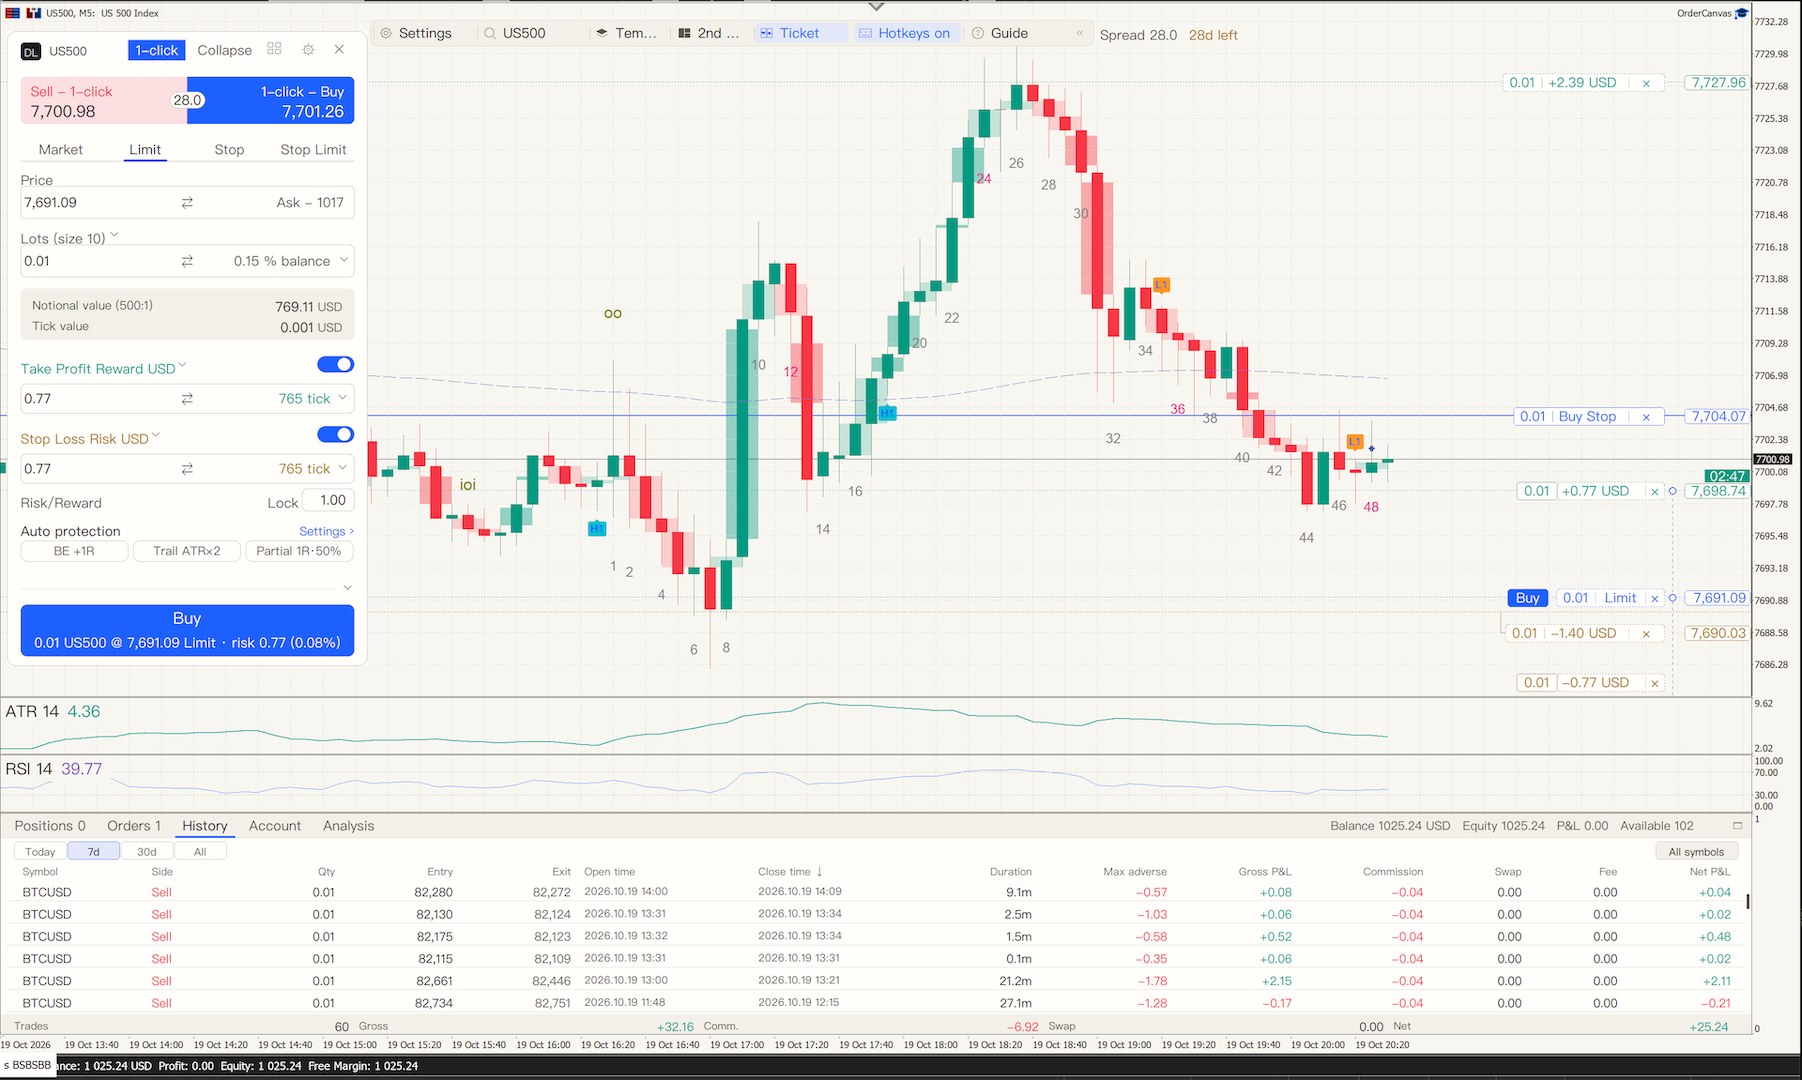
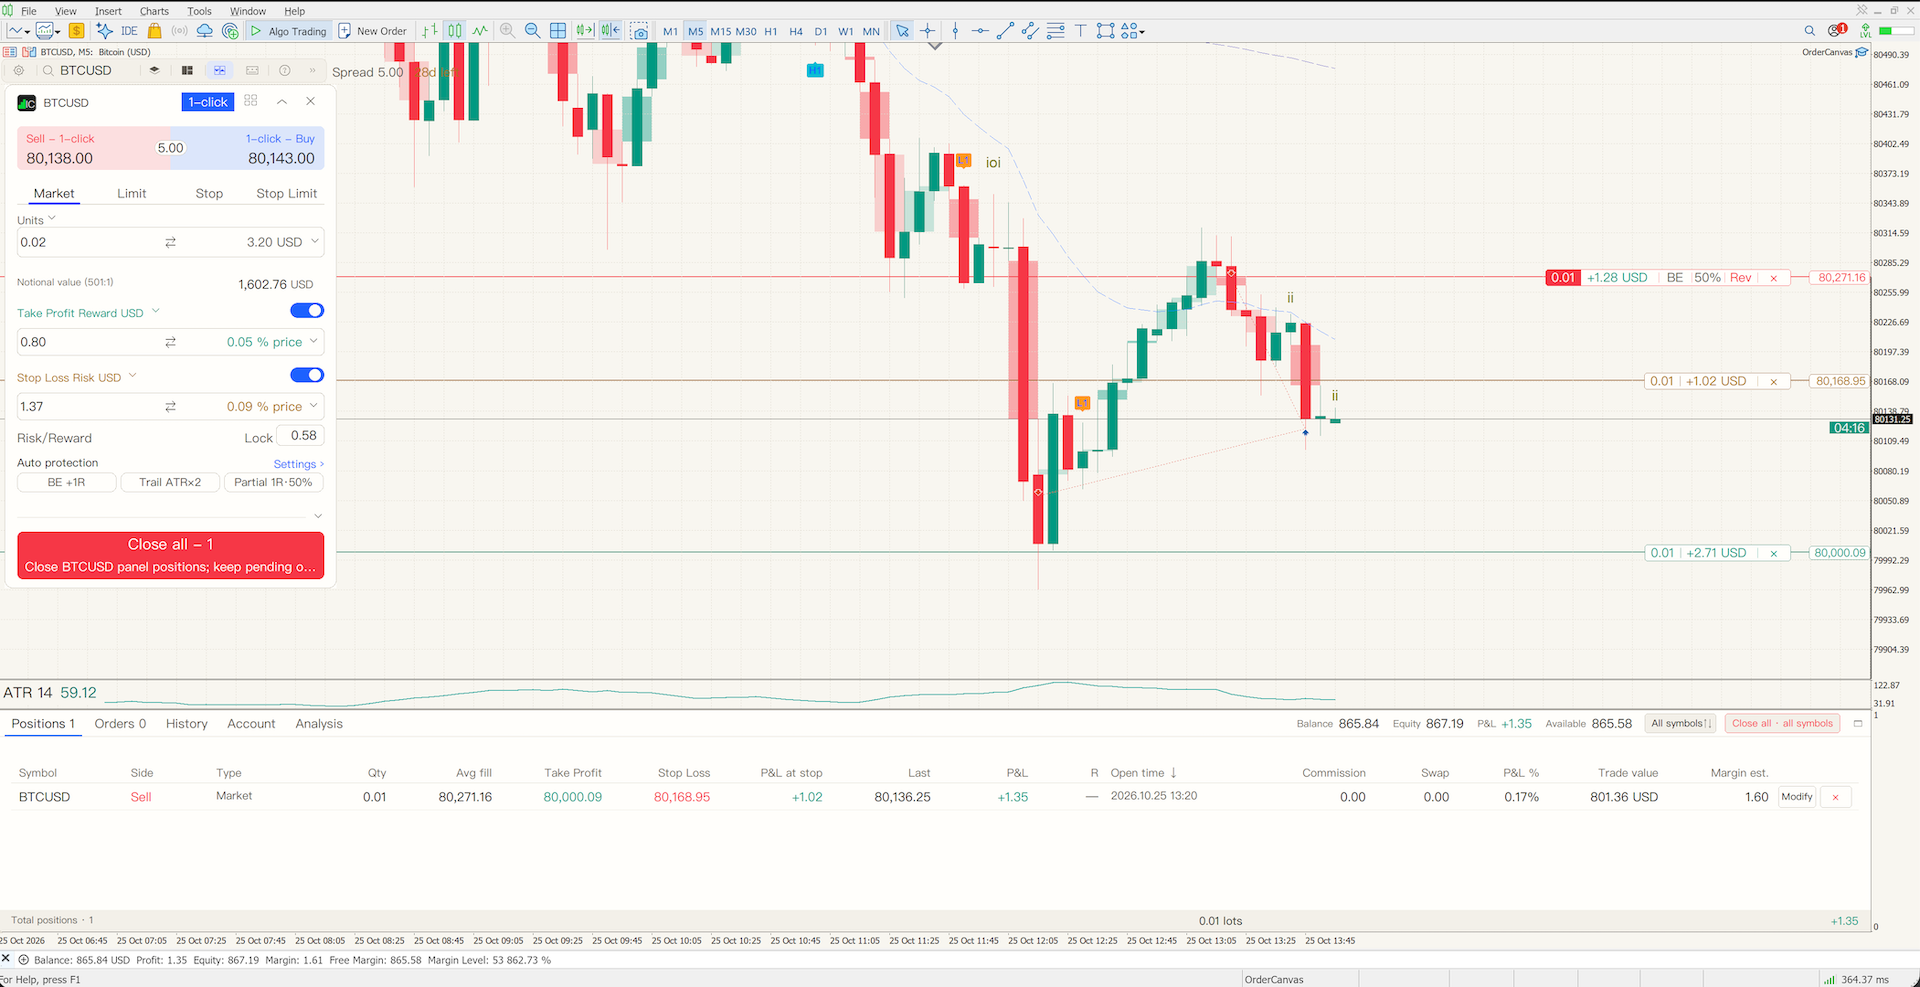
docs: OrderCanvas 1.12.3

diff --git a/README.md b/README.md
@@ -24,7 +24,29 @@ Plan chart-based orders using draggable Entry, Stop Loss (SL) and Take Profit (T
 
 </div>
 
-![OrderCanvas](images/panel.png)
+![OrderCanvas 1.12.3](images/1.12.3/panel.png)
+
+## Version 1.12.3
+
+A searchable Workbench settings window groups Interface, Orders, Automation, Events, Studies, Hotkeys and Account. Study modules have Inputs, Style and Visibility controls. Regular-weight labels, quote sizing, Mac markers and theme changes have been refined; repeated font measurements in the order panel have been reduced. The interface remains English/Chinese.
+
+**Known limitation:** repeated order changes or long sessions can still slow the interface; performance work is continuing. These screenshots are from the Owner’s Demo account; the displayed results are examples, not performance promises.
+
+[![Workbench settings](images/1.12.3/settings-interface.png)](images/1.12.3/settings-interface.png)
+
+<details><summary>More 1.12.3 screenshots</summary>
+
+![Events](images/1.12.3/settings-events.png)
+
+![Hotkeys](images/1.12.3/settings-hotkeys.png)
+
+![Account](images/1.12.3/account.png)
+
+![Dark workspace](images/1.12.3/workspace-dark.png)
+
+![Multi-chart and guide](images/1.12.3/multichart-guide.png)
+
+</details>
 
 ## Choose your path
 
@@ -100,8 +122,8 @@ Turn on *1-click* in the ticket header: a click on the Sell / Buy quote places t
 ### 5. Order panel and trade analytics
 A dock under the chart with **Positions, Orders, History, Account and Analytics**. History shows open/close times, holding time, commission, swap and net P&L; hovering a row highlights its lines on the chart. **Analytics** reads like a strategy report: a KPI strip (net P&L, max drawdown, trades, win rate, profit factor, costs), the equity curve with drawdown and a hover card per trade, then chart cards - profit structure, win / loss, P&L distribution, long vs short, by weekday, holding time and close hour - and the performance, risk and per-symbol tables. Today / 7 days / 30 days / all, this symbol or all symbols; maximise the panel to use the whole chart. Each closed trade also shows its **actual risk** - the largest floating loss while it was open (MAE) - next to the risk planned by its stop.
 
-![History](images/history.png)
-![Analytics](images/analysis.png)
+![History](images/1.12.3/history.png)
+![Analytics](images/1.12.3/analysis.png)
 
 ### 6. Price-action workbench (built in, open source)
 OrderCanvas carries **TVStudySuite**, a price-action study workbench drawn natively on the MT5 chart:
@@ -110,9 +132,9 @@ OrderCanvas carries **TVStudySuite**, a price-action study workbench drawn nativ
 - **Bar count** - numbered bars with session filter and special-number colours
 - **Entry signals** - H1 / H2 / L1 / L2 second-entry labels with optional bar-close alerts
 
-Each module, colour and size is set in *Settings → page selector*. The workbench is a MetaTrader 5 translation of three open-source TradingView scripts and is published under **MPL-2.0** - full source, license and notices in [`TVStudySuite/`](TVStudySuite). It is also installed as a standalone indicator you can add to any chart.
+Each module, colour and size is set in *Settings → Studies → module selector*, with Inputs, Style and Visibility sections. The workbench is a MetaTrader 5 translation of three open-source TradingView scripts and is published under **MPL-2.0** - full source, license and notices in [`TVStudySuite/`](TVStudySuite). The complete indicator source ships in the package; compile it to use the workbench as a standalone indicator on another chart.
 
-![Price-action workbench](images/workbench.png)
+![Price-action workbench](images/1.12.3/settings-studies.png)
 
 ### 7. Risk caps and auto protection (off by default)
 - **Max spread** per symbol and **max risk per trade** (% of equity, from the stop distance): when a cap is exceeded the submit button says why and nothing is sent
@@ -122,7 +144,7 @@ Each module, colour and size is set in *Settings → page selector*. The workben
 - The three switches sit in the ticket under the exits, each showing its rule (BE +1R · Trail ATR×2 · Partial 1R·50%); 「Settings ›」 opens the details
 - They run while MT5 and this chart stay open (it is an EA, not a server-side stop) and act only on this panel's Magic number
 
-<p align="center"><img src="images/ticket-protect.png" width="38%"> <img src="images/auto-protection.png" width="45%"></p>
+<p align="center"><img src="images/ticket-protect.png" width="38%"> <img src="images/1.12.3/settings-automation.png" width="45%"></p>
 
 ## Feature checklist
 
@@ -167,7 +189,7 @@ OrderCanvas is written in pure MQL5 - no DLLs, no external services, no network 
 - **Broker-authoritative state.** Chart lines are rebuilt from the terminal's positions and orders after every trade transaction; the panel never keeps a shadow copy that could drift from what the broker holds.
 - **Exact identity for every action.** A modify, close or reverse is bound to the ticket, account, symbol and magic number it was created for; a click that arrives after the book has changed is rejected instead of acting on another order.
 - **Only its own orders.** By default the panel manages orders with its own magic number and leaves other EAs and manual trades alone.
-- **Fast rendering.** The ticket is drawn on a Canvas with dirty-region scheduling; order-line labels are rounded Canvas skins over native click targets. Measured on the EA side: about 1.3 ms per drag frame and 0.5 ms per hover.
+- **Fast rendering.** The ticket is drawn on a Canvas with dirty-region scheduling; order-line labels are rounded Canvas skins over native click targets. Earlier focused measurements are scenario-specific; long-session performance remains an open item, as described above.
 - **DPI-aware.** Text and layout scale with the screen DPI and the interface font is chosen per platform (Microsoft YaHei UI on Windows, PingFang on macOS), so the panel looks the same on a 96-DPI Windows desktop and a Retina Mac.
 - **Safety defaults.** Live accounts show a one-time risk confirmation; close and reverse confirm by default.
 - **Tested.** Unit and contract tests for the domain logic, plus Strategy Tester runs on Windows and macOS across gold, FX, indices and crypto with every tick model - including visual mode.
@@ -176,7 +198,7 @@ OrderCanvas is written in pure MQL5 - no DLLs, no external services, no network 
 
 **[⬇ Download the latest release (OrderCanvas.zip)](https://github.com/lichunboa/OrderCanvas/releases/latest)** · [All versions](https://github.com/lichunboa/OrderCanvas/releases)
 
-The package contains the program, the recommended chart template, the TVStudySuite workbench (compiled + MPL-2.0 source) and a one-click Windows installer. It runs in the Strategy Tester without a key; on a live or demo chart it needs a license key (free 7-day trial available). Every earlier version stays available under [Releases](https://github.com/lichunboa/OrderCanvas/releases).
+The package contains the program, the recommended chart template, the embedded TVStudySuite workbench and its complete MPL-2.0 source and a one-click Windows installer. It runs in the Strategy Tester without a key; on a live or demo chart it needs a license key (free 7-day trial available). Every earlier version stays available under [Releases](https://github.com/lichunboa/OrderCanvas/releases).
 
 ## Install
 

diff --git a/CHANGELOG.md b/CHANGELOG.md
@@ -1,5 +1,20 @@
 # Changelog
 
+## 1.12.3 — 2026-10-25
+- **Text and Mac markers**: regular font weight and the earlier quote size keep the ticket compact; the letters inside session and economic-event markers fit their boxes on Retina displays.
+- **Theme changes**: the study workbench recolours gap zones while the market is idle, without waiting for a new quote. Study group names and descriptions follow the interface language.
+- **Rendering cost**: reuse text line-height measurements and remove redundant font changes in the order panel.
+- **Trading panel and order panel redesign**: each analysis figure in its own rounded card, the account strip shows names and values apart, taller table rows with dividers; quote blocks, TP / SL captions and the auto-protection chips use one colour set. Dark and light themes.
+- **History shows a close at once**: a close filled after the last quote used to appear only after the next trade.
+- **Larger text no longer overflows**: the order panel's tabs, filters, table head, rows and totals, and the order-line labels on the chart, grow with the text size.
+- **No more "see-through" panels**: with MetaTrader's "Chart on foreground" on, bars were drawn over the panels; the panel now switches it off.
+- **Settings**: Orders, Automation, Events, Hotkeys and Account each show only their own settings, with a short explanation and scope; every group has "Reset this group" (that group only); an open list closes when you click elsewhere; the search box types from the left and is readable on the light theme.
+- **Your own colours**: Settings → Interface → Advanced → Colours: accent / buy, sell / loss, profit / take-profit and stop-loss (saved per theme).
+- **Trading panel**: the gear in the panel's header is now the collapse / expand icon (Settings stays on the toolbar); menus share one look and highlight under the pointer, fields no longer show through them; the auto-protection chips react to the pointer; switches slide.
+- The order panel's column help is a small box under its column; help that only repeated the column name is gone. The installer no longer lists one MetaTrader twice.
+
+**Known limitation:** repeated order changes or long sessions can still make the interface slower. Further work on session state and object-cache lifetime is pending. If a slowdown persists, use Settings → Account → Send diagnostics to help reproduce it.
+
 ## 1.12.2 — 2026-10-23
 - **New-version notice**: when a newer version is out, the toolbar shows "New version x.y.z"; click it for what's new and how to update. Checked at most once a day on the online-activation site (`https://getordercanvas.com`, nothing extra to allow); only the version record is read - no license key or account is sent. No pop-up, no effect on trading, and nothing is shown if the check fails.
 - **Sessions and economic events in one row**: the Asia / Europe / US markers and the economic-event icons along the chart bottom now share one row to save space; markers that would meet step aside, and both keep their hover text.

diff --git a/CHANGELOG.zh-CN.md b/CHANGELOG.zh-CN.md
@@ -1,5 +1,20 @@
 # 更新日志
 
+## 1.12.3 — 2026-10-25
+- **文字与 Mac 标记**：文字恢复常规字重，报价恢复原来的字号；Mac 高分屏的时段和经济事件标记文字按像素适配，保持在框内。
+- **切换主题**：休市时切换深浅主题，工作台缺口区域也会及时换色，不必等新报价；研究指标分组名称与说明跟随界面语言。
+- **刷新开销**：复用文字行高测量结果，减少订单面板重复切换字体。
+- **交易面板 / 订单面板按新设计**：分析页每个数字一张圆角卡片，账户栏分开显示名称和数值，表格行更高、有分隔线；买卖报价块、止盈止损标题、自动保护按钮配色统一。深色、浅色各一套。
+- **平仓后历史马上出现**：以前平仓若在最后一个报价之后成交，历史要等下一笔交易才出现，现在当时就显示。
+- **字号调大不再溢出**：订单面板的标题栏、筛选按钮、表头、行、合计栏，以及图上订单线的标签，都按文字大小自动变高变宽。
+- **不再「透明」**：MT5 图表属性「图表在前景」打开时 K 线会画到面板上面，面板现在会自动把它关掉。
+- **设置**：「下单与交易」「自动管理」「事件与时段」「快捷键」「账户与诊断」各自只显示自己的设置，每项有说明和作用范围；每组都能「恢复本组默认」（只恢复这一组）；下拉框打开时点别处会收起；搜索框从左边开始输入，浅色主题看得清。
+- **自定义颜色**：设置 → 界面与图表 → 高级 → 颜色，可改强调 / 买入、卖出 / 亏损、盈利 / 止盈、止损四种颜色（深浅主题各自保存）。
+- **交易面板**：右上角的设置齿轮换成展开 / 收起图标（设置在左上角工具栏）；下拉菜单统一样式，鼠标经过有高亮，菜单下面的输入框不再透上来；自动保护按钮悬停有反馈；开关切换带一点滑动动画。
+- 订单面板表头的说明框变小，放在对应列下面；只是重复列名的说明已去掉。安装程序不再把同一个 MT5 列两次。
+
+**已知限制：**连续订单操作或长时间运行后，界面仍可能逐渐变慢。会话状态和对象缓存寿命仍需继续优化；如遇到持续卡顿，可通过「设置 → 账户与诊断 → 发送诊断」提供记录，帮助复现。
+
 ## 1.12.2 — 2026-10-23
 - **新版本提示**：有新版本时，工具栏显示「新版本 x.y.z」，点开可看更新内容和更新方法。每天最多检查一次（与联网激活同一个允许网址 `https://getordercanvas.com`，不用另外添加），只读取版本信息，不发送授权码或账户；不弹窗、不影响交易，检查失败时不显示任何内容。
 - **交易时段与经济事件同一排**：图表底部的亚 / 欧 / 美标记和经济事件图标合成一排，节省空间；时间相近时自动错开，不会互相盖住，鼠标悬停都能看到。
